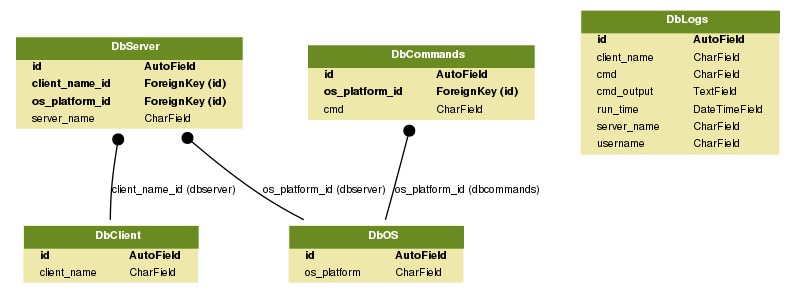
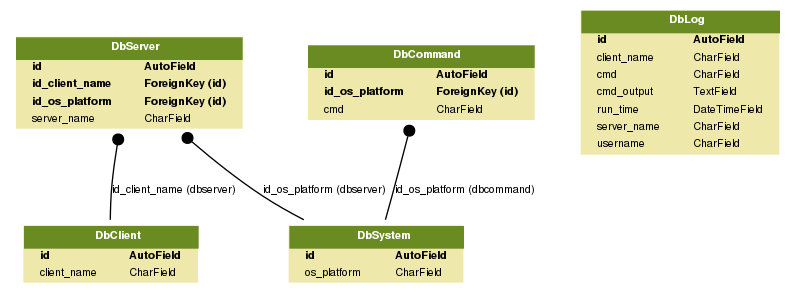
database created

diff --git a/django_app/webapp/templates/webapp/about.html b/django_app/webapp/templates/webapp/about.html
@@ -1,0 +1,37 @@
+{% extends "main.html" %}
+{% block header %}
+
+
+<script type="text/Javascript" charset="utf-8">
+</script>
+{% endblock header %}
+{% block content %}
+
+<p><h2>Get status and fix server</h2></p>
+<p> [ v0.1 ] - web engine to fix servers 
+<br><br>
+<h4>TECHNICAL SUPPORT:</h4>
+<table id="developers_list" class="display compat" width="100%" cellspacing="1"  border="1" cellpadding="1">
+  <thead>
+     <tr>
+      <th>Name</th>
+      <th>Email</th>
+      <th>Phone</th>
+      <th>Role</th>
+    </tr>
+    <tr>
+      <td> Michal Swierczewski </td>
+      <td> michal.swierczewski@pl.ibm.com </td>
+      <td> phone </td>
+      <td> CMS DevOps Engineer  </td>
+    </tr>
+    <tr>
+      <td></td>
+      <td></td>
+      <td></td>
+    </tr>
+  </thead>  
+</table>  
+
+{% endblock content %}
+

diff --git a/django_app/webapp/models.py b/django_app/webapp/models.py
@@ -12,7 +12,7 @@ class DbClient(models.Model):
 	def __str__(self):
 		return self.client_name
 		
-class DbOS(models.Model):
+class DbSystem(models.Model):
 	id = models.AutoField(primary_key=True)
 	os_platform = models.CharField(max_length=16, null=False)
 
@@ -24,8 +24,8 @@ class DbOS(models.Model):
 class DbServer(models.Model):
 	id = models.AutoField(primary_key=True)
 	
-	client_name_id = models.ForeignKey(DbClient)		# one client -> many servers
-	os_platform_id = models.ForeignKey(DbOS)
+	id_client_name = models.ForeignKey(DbClient)		# one client -> many servers
+	id_os_platform = models.ForeignKey(DbSystem)
 	
 	server_name = models.CharField(max_length=30, null=False)
 	
@@ -33,17 +33,17 @@ class DbServer(models.Model):
 		return self.server_name
 
 #
-class DbCommands(models.Model):
+class DbCommand(models.Model):
 	id = models.AutoField(primary_key=True)
 	
 	cmd = models.CharField(max_length=60, null=False)
-	os_platform_id = models.ForeignKey(DbOS)
+	id_os_platform = models.ForeignKey(DbSystem)
 	
 	def __str__(self):
 		return self.cmd
 
 # no relation
-class DbLogs(models.Model):
+class DbLog(models.Model):
 	id = models.AutoField(primary_key=True)
 	
 	username = models.CharField(max_length=30, null=False)

diff --git a/django_app/django_app/urls.py b/django_app/django_app/urls.py
@@ -3,6 +3,7 @@ from django.contrib import admin
 
 urlpatterns = [
     url(r'^admin/', admin.site.urls),
-    url(r'^webapp/', include('webapp.urls')),	# webapp as a main page, /$ nothing more than webapp/..
+    url(r'^webapp/', include('webapp.urls')),	  # webapp as a main page, /$ nothing more than webapp/..
     url(r'^', include('personal.urls')),        # login/password -> integrate it with ldap (how?)
+    #url(r'^about/', include('webapp.urls')),
 ]

diff --git a/django_app/webapp/admin.py b/django_app/webapp/admin.py
@@ -2,6 +2,9 @@ from django.contrib import admin
 
 # https://docs.djangoproject.com/en/1.10/intro/tutorial02/#make-the-poll-app-modifiable-in-the-admin
 # Make the poll app modifiable in the admin
+from webapp.models import DbLog
+#from .models import *
+admin.site.register(DbLog)
 
-#from .models import DbLogs
-#admin.site.register(DbLogs)
+
+

diff --git a/django_app/webapp/views.py b/django_app/webapp/views.py
@@ -1,5 +1,13 @@
 from django.shortcuts import render
 from django.http import HttpResponse
 
+
+
 def index(request):
     return render(request, 'webapp/main.html')
+
+#def about(request):
+    #t = loader.get_template('webapp/about.html')
+    #c = RequestContext(request)
+    #return HttpResponse(t.render(c))
+    

diff --git a/django_app/webapp/urls.py b/django_app/webapp/urls.py
@@ -3,4 +3,5 @@ from . import views
 
 urlpatterns = [
     url(r'^$', views.index, name='index'),
+    #url(r'^$', views.about, name='about'),
 ]
